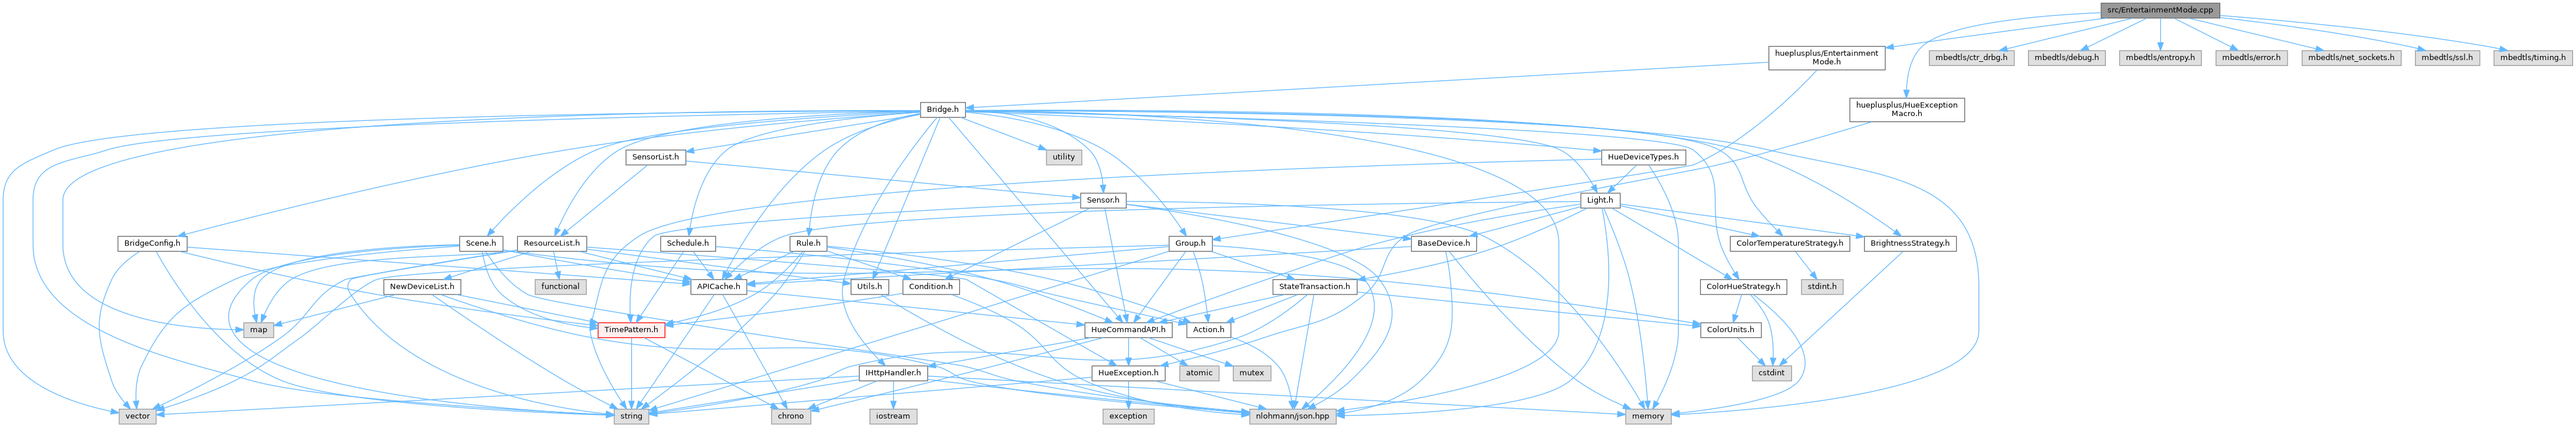
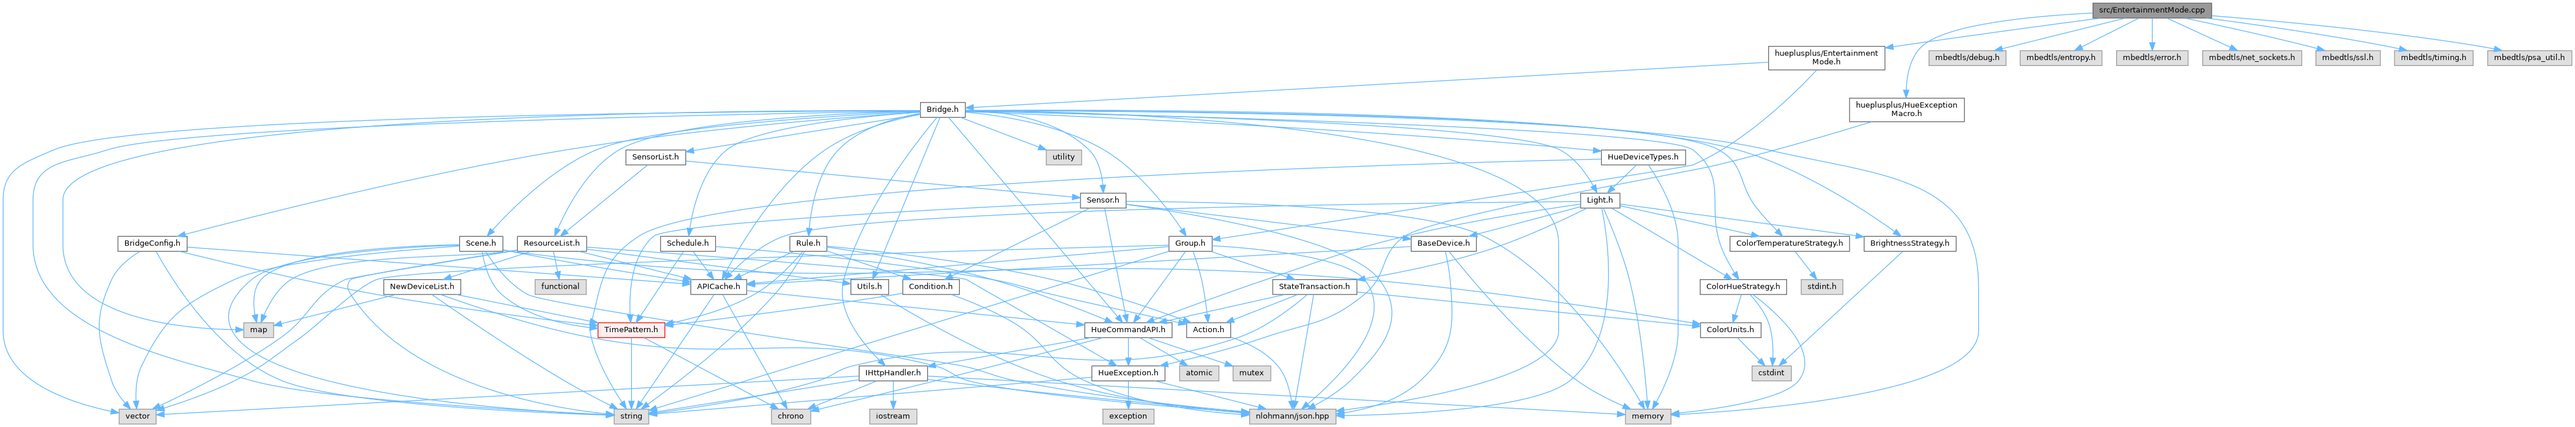
deploy: f09cd92133c8b4d296fc2277eca66c5aab457e74

diff --git a/_entertainment_mode_8h_source.html b/_entertainment_mode_8h_source.html
@@ -125,15 +125,15 @@ $(document).ready(function() { init_codefold(0); });
 <div class="ttc" id="a_group_8h_html"><div class="ttname"><a href="_group_8h.html">Group.h</a></div></div>
 <div class="ttc" id="aclasshueplusplus_1_1_bridge_html"><div class="ttname"><a href="classhueplusplus_1_1_bridge.html">hueplusplus::Bridge</a></div><div class="ttdoc">Bridge class for a bridge.</div><div class="ttdef"><b>Definition</b> Bridge.h:139</div></div>
 <div class="ttc" id="aclasshueplusplus_1_1_entertainment_mode_html"><div class="ttname"><a href="classhueplusplus_1_1_entertainment_mode.html">hueplusplus::EntertainmentMode</a></div><div class="ttdoc">Class for Hue Entertainment Mode.</div><div class="ttdef"><b>Definition</b> EntertainmentMode.h:37</div></div>
-<div class="ttc" id="aclasshueplusplus_1_1_entertainment_mode_html_a007d44d14c5bd7de5fb63a0a82d16e48"><div class="ttname"><a href="classhueplusplus_1_1_entertainment_mode.html#a007d44d14c5bd7de5fb63a0a82d16e48">hueplusplus::EntertainmentMode::connect</a></div><div class="ttdeci">bool connect()</div><div class="ttdoc">Connect and start streaming.</div><div class="ttdef"><b>Definition</b> EntertainmentMode.cpp:147</div></div>
+<div class="ttc" id="aclasshueplusplus_1_1_entertainment_mode_html_a007d44d14c5bd7de5fb63a0a82d16e48"><div class="ttname"><a href="classhueplusplus_1_1_entertainment_mode.html#a007d44d14c5bd7de5fb63a0a82d16e48">hueplusplus::EntertainmentMode::connect</a></div><div class="ttdeci">bool connect()</div><div class="ttdoc">Connect and start streaming.</div><div class="ttdef"><b>Definition</b> EntertainmentMode.cpp:137</div></div>
 <div class="ttc" id="aclasshueplusplus_1_1_entertainment_mode_html_a3be4ee9ee045fc791e2606c78fbfd3e6"><div class="ttname"><a href="classhueplusplus_1_1_entertainment_mode.html#a3be4ee9ee045fc791e2606c78fbfd3e6">hueplusplus::EntertainmentMode::bridge</a></div><div class="ttdeci">Bridge * bridge</div><div class="ttdoc">Associated bridge.</div><div class="ttdef"><b>Definition</b> EntertainmentMode.h:80</div></div>
-<div class="ttc" id="aclasshueplusplus_1_1_entertainment_mode_html_a55896dab15a5be5b14f9502d70401820"><div class="ttname"><a href="classhueplusplus_1_1_entertainment_mode.html#a55896dab15a5be5b14f9502d70401820">hueplusplus::EntertainmentMode::disconnect</a></div><div class="ttdeci">bool disconnect()</div><div class="ttdoc">Disconnect and stop streaming.</div><div class="ttdef"><b>Definition</b> EntertainmentMode.cpp:272</div></div>
+<div class="ttc" id="aclasshueplusplus_1_1_entertainment_mode_html_a55896dab15a5be5b14f9502d70401820"><div class="ttname"><a href="classhueplusplus_1_1_entertainment_mode.html#a55896dab15a5be5b14f9502d70401820">hueplusplus::EntertainmentMode::disconnect</a></div><div class="ttdeci">bool disconnect()</div><div class="ttdoc">Disconnect and stop streaming.</div><div class="ttdef"><b>Definition</b> EntertainmentMode.cpp:265</div></div>
 <div class="ttc" id="aclasshueplusplus_1_1_entertainment_mode_html_a5d5578dab3ba8ef2ea1df59e7780f43f"><div class="ttname"><a href="classhueplusplus_1_1_entertainment_mode.html#a5d5578dab3ba8ef2ea1df59e7780f43f">hueplusplus::EntertainmentMode::entertainment_num_lights</a></div><div class="ttdeci">uint8_t entertainment_num_lights</div><div class="ttdoc">number of lights in entertainment mode group</div><div class="ttdef"><b>Definition</b> EntertainmentMode.h:84</div></div>
-<div class="ttc" id="aclasshueplusplus_1_1_entertainment_mode_html_a6e1c54f3d0b79329c47967e45885be12"><div class="ttname"><a href="classhueplusplus_1_1_entertainment_mode.html#a6e1c54f3d0b79329c47967e45885be12">hueplusplus::EntertainmentMode::update</a></div><div class="ttdeci">bool update()</div><div class="ttdoc">Update all set colors by setColorRGB.</div><div class="ttdef"><b>Definition</b> EntertainmentMode.cpp:299</div></div>
+<div class="ttc" id="aclasshueplusplus_1_1_entertainment_mode_html_a6e1c54f3d0b79329c47967e45885be12"><div class="ttname"><a href="classhueplusplus_1_1_entertainment_mode.html#a6e1c54f3d0b79329c47967e45885be12">hueplusplus::EntertainmentMode::update</a></div><div class="ttdeci">bool update()</div><div class="ttdoc">Update all set colors by setColorRGB.</div><div class="ttdef"><b>Definition</b> EntertainmentMode.cpp:292</div></div>
 <div class="ttc" id="aclasshueplusplus_1_1_entertainment_mode_html_aad4b9d6b60f5e59f11b1fc7f0f51d590"><div class="ttname"><a href="classhueplusplus_1_1_entertainment_mode.html#aad4b9d6b60f5e59f11b1fc7f0f51d590">hueplusplus::EntertainmentMode::entertainment_msg</a></div><div class="ttdeci">std::vector&lt; uint8_t &gt; entertainment_msg</div><div class="ttdoc">buffer containing the entertainment mode packet data</div><div class="ttdef"><b>Definition</b> EntertainmentMode.h:83</div></div>
-<div class="ttc" id="aclasshueplusplus_1_1_entertainment_mode_html_ab5168db2ad934d81cc20fd811f157f0e"><div class="ttname"><a href="classhueplusplus_1_1_entertainment_mode.html#ab5168db2ad934d81cc20fd811f157f0e">hueplusplus::EntertainmentMode::~EntertainmentMode</a></div><div class="ttdeci">~EntertainmentMode()</div><div class="ttdoc">Destroy the Entertainment Mode object.</div><div class="ttdef"><b>Definition</b> EntertainmentMode.cpp:137</div></div>
+<div class="ttc" id="aclasshueplusplus_1_1_entertainment_mode_html_ab5168db2ad934d81cc20fd811f157f0e"><div class="ttname"><a href="classhueplusplus_1_1_entertainment_mode.html#ab5168db2ad934d81cc20fd811f157f0e">hueplusplus::EntertainmentMode::~EntertainmentMode</a></div><div class="ttdeci">~EntertainmentMode()</div><div class="ttdoc">Destroy the Entertainment Mode object.</div><div class="ttdef"><b>Definition</b> EntertainmentMode.cpp:128</div></div>
 <div class="ttc" id="aclasshueplusplus_1_1_entertainment_mode_html_ab8b56da7696f258193c42238dade1a18"><div class="ttname"><a href="classhueplusplus_1_1_entertainment_mode.html#ab8b56da7696f258193c42238dade1a18">hueplusplus::EntertainmentMode::tls_context</a></div><div class="ttdeci">std::unique_ptr&lt; TLSContext &gt; tls_context</div><div class="ttdoc">tls context</div><div class="ttdef"><b>Definition</b> EntertainmentMode.h:86</div></div>
-<div class="ttc" id="aclasshueplusplus_1_1_entertainment_mode_html_ac2798b76837ce5fd10f43d3859343333"><div class="ttname"><a href="classhueplusplus_1_1_entertainment_mode.html#ac2798b76837ce5fd10f43d3859343333">hueplusplus::EntertainmentMode::setColorRGB</a></div><div class="ttdeci">bool setColorRGB(uint8_t light_index, uint8_t red, uint8_t green, uint8_t blue)</div><div class="ttdoc">Set the color of the given light in RGB format.</div><div class="ttdef"><b>Definition</b> EntertainmentMode.cpp:278</div></div>
+<div class="ttc" id="aclasshueplusplus_1_1_entertainment_mode_html_ac2798b76837ce5fd10f43d3859343333"><div class="ttname"><a href="classhueplusplus_1_1_entertainment_mode.html#ac2798b76837ce5fd10f43d3859343333">hueplusplus::EntertainmentMode::setColorRGB</a></div><div class="ttdeci">bool setColorRGB(uint8_t light_index, uint8_t red, uint8_t green, uint8_t blue)</div><div class="ttdoc">Set the color of the given light in RGB format.</div><div class="ttdef"><b>Definition</b> EntertainmentMode.cpp:271</div></div>
 <div class="ttc" id="aclasshueplusplus_1_1_entertainment_mode_html_ace2048a118dae0b946f23746617b6179"><div class="ttname"><a href="classhueplusplus_1_1_entertainment_mode.html#ace2048a118dae0b946f23746617b6179">hueplusplus::EntertainmentMode::group</a></div><div class="ttdeci">Group * group</div><div class="ttdoc">Associated group.</div><div class="ttdef"><b>Definition</b> EntertainmentMode.h:81</div></div>
 <div class="ttc" id="aclasshueplusplus_1_1_group_html"><div class="ttname"><a href="classhueplusplus_1_1_group.html">hueplusplus::Group</a></div><div class="ttdoc">Class for Groups of lights.</div><div class="ttdef"><b>Definition</b> Group.h:42</div></div>
 <div class="ttc" id="anamespacehueplusplus_html"><div class="ttname"><a href="namespacehueplusplus.html">hueplusplus</a></div><div class="ttdoc">Namespace for the hueplusplus library.</div><div class="ttdef"><b>Definition</b> Action.h:28</div></div>

diff --git a/search/all_2.js b/search/all_2.js
@@ -40,20 +40,20 @@ var searchData=
   ['colorgamut_37',['ColorGamut',['../structhueplusplus_1_1_color_gamut.html',1,'hueplusplus']]],
   ['colorhuestrategy_38',['colorhuestrategy',['../classhueplusplus_1_1_color_hue_strategy.html',1,'hueplusplus::ColorHueStrategy'],['../classhueplusplus_1_1_light.html#a58a030711463559c249e26c85e8847eb',1,'hueplusplus::Light::colorHueStrategy']]],
   ['colorhuestrategy_2eh_39',['ColorHueStrategy.h',['../_color_hue_strategy_8h.html',1,'']]],
-  ['colortemperaturestrategy_40',['colortemperaturestrategy',['../classhueplusplus_1_1_color_temperature_strategy.html',1,'hueplusplus::ColorTemperatureStrategy'],['../classhueplusplus_1_1_light.html#ac0c64d4bdaa4a26a3da35dae112101d1',1,'hueplusplus::Light::colorTemperatureStrategy']]],
+  ['colortemperaturestrategy_40',['colortemperaturestrategy',['../classhueplusplus_1_1_light.html#ac0c64d4bdaa4a26a3da35dae112101d1',1,'hueplusplus::Light::colorTemperatureStrategy'],['../classhueplusplus_1_1_color_temperature_strategy.html',1,'hueplusplus::ColorTemperatureStrategy']]],
   ['colortemperaturestrategy_2eh_41',['ColorTemperatureStrategy.h',['../_color_temperature_strategy_8h.html',1,'']]],
-  ['colortype_42',['colortype',['../classhueplusplus_1_1_light.html#a7f504e827b158c81e9ca3c57f158ae3b',1,'hueplusplus::Light::colorType'],['../namespacehueplusplus.html#aa4ee261126f0bc8edc07e67bc811dc43',1,'hueplusplus::ColorType']]],
+  ['colortype_42',['colortype',['../namespacehueplusplus.html#aa4ee261126f0bc8edc07e67bc811dc43',1,'hueplusplus::ColorType'],['../classhueplusplus_1_1_light.html#a7f504e827b158c81e9ca3c57f158ae3b',1,'hueplusplus::Light::colorType']]],
   ['colorunits_2ecpp_43',['ColorUnits.cpp',['../_color_units_8cpp.html',1,'']]],
   ['colorunits_2eh_44',['ColorUnits.h',['../_color_units_8h.html',1,'']]],
   ['combinedpath_45',['combinedPath',['../classhueplusplus_1_1_hue_command_a_p_i.html#ad50f6a232f2cc542da4813051f3778f0',1,'hueplusplus::HueCommandAPI']]],
   ['commands_46',['commands',['../classhueplusplus_1_1_state_transaction.html#a0d95abef6863f89bae7da4e27dcca952',1,'hueplusplus::StateTransaction']]],
   ['commit_47',['commit',['../classhueplusplus_1_1_state_transaction.html#aeb7dae7c01fdffad9e224e5393f83b85',1,'hueplusplus::StateTransaction']]],
   ['compatibility_48',['Compatibility',['../index.html#autotoc_md8',1,'']]],
-  ['condition_49',['condition',['../classhueplusplus_1_1_condition.html',1,'hueplusplus::Condition'],['../classhueplusplus_1_1_condition.html#a14c0d2560c50eb6dc36b44bb825d3c82',1,'hueplusplus::Condition::Condition()']]],
+  ['condition_49',['condition',['../classhueplusplus_1_1_condition.html#a14c0d2560c50eb6dc36b44bb825d3c82',1,'hueplusplus::Condition::Condition()'],['../classhueplusplus_1_1_condition.html',1,'hueplusplus::Condition']]],
   ['condition_2eh_50',['Condition.h',['../_condition_8h.html',1,'']]],
   ['conditions_51',['Creating conditions',['../sensors.html#autotoc_md22',1,'']]],
   ['conf_52',['conf',['../structhueplusplus_1_1_t_l_s_context.html#abd44e1ca89eeafb306cfd494d8ed50b5',1,'hueplusplus::TLSContext']]],
-  ['config_53',['config',['../classhueplusplus_1_1_config.html#a8a276a5a07935c1a6c9d7620f500ef73',1,'hueplusplus::Config::Config()'],['../classhueplusplus_1_1_bridge.html#a7823c82064faf3eb019288cbb9f7f7d3',1,'hueplusplus::Bridge::config() const'],['../classhueplusplus_1_1_bridge.html#a227a51a24d21bda234a40b8b84058eb3',1,'hueplusplus::Bridge::config()'],['../classhueplusplus_1_1_config.html',1,'hueplusplus::Config']]],
+  ['config_53',['config',['../classhueplusplus_1_1_bridge.html#a227a51a24d21bda234a40b8b84058eb3',1,'hueplusplus::Bridge::config()'],['../classhueplusplus_1_1_config.html#a8a276a5a07935c1a6c9d7620f500ef73',1,'hueplusplus::Config::Config()'],['../classhueplusplus_1_1_bridge.html#a7823c82064faf3eb019288cbb9f7f7d3',1,'hueplusplus::Bridge::config()'],['../classhueplusplus_1_1_config.html',1,'hueplusplus::Config']]],
   ['connect_54',['connect',['../classhueplusplus_1_1_entertainment_mode.html#a007d44d14c5bd7de5fb63a0a82d16e48',1,'hueplusplus::EntertainmentMode']]],
   ['connecttobridge_55',['connecttobridge',['../_username_config_8cpp.html#a3e03eb0222587bec230cd7e4c7021a48',1,'connectToBridge(const std::string &amp;username, const std::string &amp;macAddress):&#160;UsernameConfig.cpp'],['../_lights_off_8cpp.html#a7b24130ecc565578d8eb32a7c4268253',1,'connectToBridge():&#160;LightsOff.cpp'],['../_bridge_setup_8cpp.html#a7b24130ecc565578d8eb32a7c4268253',1,'connectToBridge():&#160;BridgeSetup.cpp']]],
   ['construct_56',['construct',['../classhueplusplus_1_1_resource_list.html#ab98434ae91b0868dcf9cb95dfa168c95',1,'hueplusplus::ResourceList']]],
@@ -76,6 +76,5 @@ var searchData=
   ['creating_20actions_73',['Creating Actions',['../transactions.html#autotoc_md32',1,'']]],
   ['creating_20conditions_74',['Creating conditions',['../sensors.html#autotoc_md22',1,'']]],
   ['creating_20the_20hue_20bridge_75',['Creating the Hue bridge',['../getting-started.html#autotoc_md1',1,'']]],
-  ['ctr_5fdrbg_76',['ctr_drbg',['../structhueplusplus_1_1_t_l_s_context.html#a2a11da610e1caf3d8967d92746ce5fed',1,'hueplusplus::TLSContext']]],
-  ['current_5ffile_5finfo_77',['CURRENT_FILE_INFO',['../_hue_exception_macro_8h.html#ab07b1a21cf9c784dcfdd11f20c043dcb',1,'HueExceptionMacro.h']]]
+  ['current_5ffile_5finfo_76',['CURRENT_FILE_INFO',['../_hue_exception_macro_8h.html#ab07b1a21cf9c784dcfdd11f20c043dcb',1,'HueExceptionMacro.h']]]
 ];

diff --git a/_entertainment_mode_8cpp.html b/_entertainment_mode_8cpp.html
@@ -82,13 +82,13 @@ $(function() {
 </div><!--header-->
 <div class="contents">
 <div class="textblock"><code>#include &quot;<a class="el" href="_entertainment_mode_8h_source.html">hueplusplus/EntertainmentMode.h</a>&quot;</code><br />
-<code>#include &quot;mbedtls/ctr_drbg.h&quot;</code><br />
 <code>#include &quot;mbedtls/debug.h&quot;</code><br />
 <code>#include &quot;mbedtls/entropy.h&quot;</code><br />
 <code>#include &quot;mbedtls/error.h&quot;</code><br />
 <code>#include &quot;mbedtls/net_sockets.h&quot;</code><br />
 <code>#include &quot;mbedtls/ssl.h&quot;</code><br />
 <code>#include &quot;mbedtls/timing.h&quot;</code><br />
+<code>#include &quot;mbedtls/psa_util.h&quot;</code><br />
 <code>#include &quot;<a class="el" href="_hue_exception_macro_8h_source.html">hueplusplus/HueExceptionMacro.h</a>&quot;</code><br />
 </div><div class="textblock"><div id="dynsection-0" onclick="return toggleVisibility(this)" class="dynheader closed" style="cursor:pointer;">
   <img id="dynsection-0-trigger" src="closed.png" alt="+"/> Include dependency graph for EntertainmentMode.cpp:</div>
@@ -97,25 +97,25 @@ $(function() {
 <div id="dynsection-0-content" class="dyncontent" style="display:none;">
 <div class="center"><img src="_entertainment_mode_8cpp__incl.png" border="0" usemap="#asrc_2_entertainment_mode_8cpp" alt=""/></div>
 <map name="asrc_2_entertainment_mode_8cpp" id="asrc_2_entertainment_mode_8cpp">
-<area shape="rect" title=" " alt="" coords="3562,5,3763,31"/>
+<area shape="rect" title=" " alt="" coords="3549,5,3750,31"/>
 <area shape="rect" href="_entertainment_mode_8h.html" title=" " alt="" coords="2999,79,3196,119"/>
-<area shape="poly" title=" " alt="" coords="3572,33,3215,81,3211,82,3210,77,3214,76,3571,28"/>
-<area shape="rect" title=" " alt="" coords="3271,86,3415,111"/>
-<area shape="poly" title=" " alt="" coords="3617,33,3403,85,3402,80,3616,28"/>
-<area shape="rect" title=" " alt="" coords="3439,86,3569,111"/>
-<area shape="poly" title=" " alt="" coords="3641,33,3541,82,3538,78,3638,28"/>
-<area shape="rect" title=" " alt="" coords="3593,86,3732,111"/>
-<area shape="poly" title=" " alt="" coords="3665,31,3665,72,3660,72,3660,31"/>
-<area shape="rect" title=" " alt="" coords="3757,86,3878,111"/>
-<area shape="poly" title=" " alt="" coords="3687,28,3783,77,3781,82,3684,33"/>
-<area shape="rect" title=" " alt="" coords="3903,86,4071,111"/>
-<area shape="poly" title=" " alt="" coords="3710,28,3927,80,3926,85,3709,33"/>
-<area shape="rect" title=" " alt="" coords="4095,86,4204,111"/>
-<area shape="poly" title=" " alt="" coords="3764,27,3915,47,4083,76,4099,80,4098,85,4082,81,3914,52,3763,32"/>
-<area shape="rect" title=" " alt="" coords="4228,86,4361,111"/>
-<area shape="poly" title=" " alt="" coords="3764,24,3973,43,4095,58,4216,76,4239,80,4238,86,4216,81,4094,63,3972,48,3763,29"/>
+<area shape="poly" title=" " alt="" coords="3562,33,3215,81,3211,82,3210,77,3214,76,3561,28"/>
+<area shape="rect" title=" " alt="" coords="3271,86,3401,111"/>
+<area shape="poly" title=" " alt="" coords="3604,33,3395,85,3394,80,3603,28"/>
+<area shape="rect" title=" " alt="" coords="3425,86,3564,111"/>
+<area shape="poly" title=" " alt="" coords="3628,33,3531,82,3529,77,3625,28"/>
+<area shape="rect" title=" " alt="" coords="3589,86,3710,111"/>
+<area shape="poly" title=" " alt="" coords="3652,31,3652,72,3647,72,3647,31"/>
+<area shape="rect" title=" " alt="" coords="3735,86,3903,111"/>
+<area shape="poly" title=" " alt="" coords="3675,28,3783,78,3781,83,3673,33"/>
+<area shape="rect" title=" " alt="" coords="3927,86,4036,111"/>
+<area shape="poly" title=" " alt="" coords="3705,28,3915,76,3929,80,3928,85,3914,81,3704,33"/>
+<area shape="rect" title=" " alt="" coords="4060,86,4193,111"/>
+<area shape="poly" title=" " alt="" coords="3741,28,3886,48,4048,76,4069,80,4068,86,4048,81,3885,54,3740,33"/>
+<area shape="rect" title=" " alt="" coords="4218,86,4361,111"/>
+<area shape="poly" title=" " alt="" coords="3750,24,3961,44,4206,76,4230,80,4229,86,4205,81,3960,49,3750,29"/>
 <area shape="rect" href="_hue_exception_macro_8h.html" title=" " alt="" coords="3136,167,3331,207"/>
-<area shape="poly" title=" " alt="" coords="3562,24,3476,29,3387,40,3310,56,3281,67,3260,81,3248,96,3241,115,3235,153,3229,153,3235,113,3244,93,3257,77,3279,63,3309,51,3387,34,3476,24,3562,19"/>
+<area shape="poly" title=" " alt="" coords="3549,25,3466,30,3381,41,3308,57,3280,68,3260,81,3248,96,3241,115,3235,153,3229,153,3236,113,3244,93,3257,77,3278,63,3306,52,3380,35,3466,25,3548,19"/>
 <area shape="rect" href="_bridge_8h.html" title=" " alt="" coords="1561,174,1637,199"/>
 <area shape="poly" title=" " alt="" coords="2999,108,1651,185,1650,180,2998,103"/>
 <area shape="rect" href="_group_8h.html" title=" " alt="" coords="1982,401,2055,427"/>

diff --git a/search/all_4.js b/search/all_4.js
@@ -7,16 +7,15 @@ var searchData=
   ['entertainmentmode_4',['entertainmentmode',['../classhueplusplus_1_1_entertainment_mode.html',1,'hueplusplus::EntertainmentMode'],['../classhueplusplus_1_1_entertainment_mode.html#a75c6c2abf66975a8eda41e84d619345f',1,'hueplusplus::EntertainmentMode::EntertainmentMode()']]],
   ['entertainmentmode_2ecpp_5',['EntertainmentMode.cpp',['../_entertainment_mode_8cpp.html',1,'']]],
   ['entertainmentmode_2eh_6',['EntertainmentMode.h',['../_entertainment_mode_8h.html',1,'']]],
-  ['entropy_7',['entropy',['../structhueplusplus_1_1_t_l_s_context.html#a73df19b9d266ff35ca24930e941c80fe',1,'hueplusplus::TLSContext']]],
-  ['eq_8',['eq',['../classhueplusplus_1_1_condition.html#a8a66cda007f5cf01934f71c02c03cf35adf22f17124884fc51f1ac69d610096ac',1,'hueplusplus::Condition']]],
-  ['example_3a_9',['Example:',['../shared-state.html#autotoc_md28',1,'']]],
-  ['examples_10',['Building examples',['../build.html#build-examples',1,'']]],
-  ['exists_11',['exists',['../classhueplusplus_1_1_resource_list.html#af5e884eefde0a45d53f029a9f30a6ab7',1,'hueplusplus::ResourceList::exists(const IdType &amp;id)'],['../classhueplusplus_1_1_resource_list.html#a8c0219d853d551394020b7b482518070',1,'hueplusplus::ResourceList::exists(const IdType &amp;id) const'],['../classhueplusplus_1_1_group_resource_list.html#ac9fca6bd61117170325efd7c903dc95d',1,'hueplusplus::GroupResourceList::exists()']]],
-  ['extendedcolorhuestrategy_12',['extendedcolorhuestrategy',['../classhueplusplus_1_1_light.html#a9c3ccafa802cdb32c292c49f575148f4',1,'hueplusplus::Light::ExtendedColorHueStrategy'],['../classhueplusplus_1_1_extended_color_hue_strategy.html',1,'hueplusplus::ExtendedColorHueStrategy']]],
-  ['extendedcolorhuestrategy_2ecpp_13',['ExtendedColorHueStrategy.cpp',['../_extended_color_hue_strategy_8cpp.html',1,'']]],
-  ['extendedcolorhuestrategy_2eh_14',['ExtendedColorHueStrategy.h',['../_extended_color_hue_strategy_8h.html',1,'']]],
-  ['extendedcolortemperaturestrategy_15',['extendedcolortemperaturestrategy',['../classhueplusplus_1_1_light.html#a39b9af853936935617664c3f7814d910',1,'hueplusplus::Light::ExtendedColorTemperatureStrategy'],['../classhueplusplus_1_1_extended_color_temperature_strategy.html',1,'hueplusplus::ExtendedColorTemperatureStrategy']]],
-  ['extendedcolortemperaturestrategy_2ecpp_16',['ExtendedColorTemperatureStrategy.cpp',['../_extended_color_temperature_strategy_8cpp.html',1,'']]],
-  ['extendedcolortemperaturestrategy_2eh_17',['ExtendedColorTemperatureStrategy.h',['../_extended_color_temperature_strategy_8h.html',1,'']]],
-  ['external_20libraries_18',['External libraries',['../build.html#autotoc_md0',1,'']]]
+  ['eq_7',['eq',['../classhueplusplus_1_1_condition.html#a8a66cda007f5cf01934f71c02c03cf35adf22f17124884fc51f1ac69d610096ac',1,'hueplusplus::Condition']]],
+  ['example_3a_8',['Example:',['../shared-state.html#autotoc_md28',1,'']]],
+  ['examples_9',['Building examples',['../build.html#build-examples',1,'']]],
+  ['exists_10',['exists',['../classhueplusplus_1_1_resource_list.html#af5e884eefde0a45d53f029a9f30a6ab7',1,'hueplusplus::ResourceList::exists(const IdType &amp;id)'],['../classhueplusplus_1_1_resource_list.html#a8c0219d853d551394020b7b482518070',1,'hueplusplus::ResourceList::exists(const IdType &amp;id) const'],['../classhueplusplus_1_1_group_resource_list.html#ac9fca6bd61117170325efd7c903dc95d',1,'hueplusplus::GroupResourceList::exists()']]],
+  ['extendedcolorhuestrategy_11',['extendedcolorhuestrategy',['../classhueplusplus_1_1_light.html#a9c3ccafa802cdb32c292c49f575148f4',1,'hueplusplus::Light::ExtendedColorHueStrategy'],['../classhueplusplus_1_1_extended_color_hue_strategy.html',1,'hueplusplus::ExtendedColorHueStrategy']]],
+  ['extendedcolorhuestrategy_2ecpp_12',['ExtendedColorHueStrategy.cpp',['../_extended_color_hue_strategy_8cpp.html',1,'']]],
+  ['extendedcolorhuestrategy_2eh_13',['ExtendedColorHueStrategy.h',['../_extended_color_hue_strategy_8h.html',1,'']]],
+  ['extendedcolortemperaturestrategy_14',['extendedcolortemperaturestrategy',['../classhueplusplus_1_1_light.html#a39b9af853936935617664c3f7814d910',1,'hueplusplus::Light::ExtendedColorTemperatureStrategy'],['../classhueplusplus_1_1_extended_color_temperature_strategy.html',1,'hueplusplus::ExtendedColorTemperatureStrategy']]],
+  ['extendedcolortemperaturestrategy_2ecpp_15',['ExtendedColorTemperatureStrategy.cpp',['../_extended_color_temperature_strategy_8cpp.html',1,'']]],
+  ['extendedcolortemperaturestrategy_2eh_16',['ExtendedColorTemperatureStrategy.h',['../_extended_color_temperature_strategy_8h.html',1,'']]],
+  ['external_20libraries_17',['External libraries',['../build.html#autotoc_md0',1,'']]]
 ];

diff --git a/structhueplusplus_1_1_t_l_s_context.html b/structhueplusplus_1_1_t_l_s_context.html
@@ -86,10 +86,6 @@ Public Attributes</h2></td></tr>
 <tr class="separator:a1d6795347b4d9db4f5ca251717c6f09b"><td class="memSeparator" colspan="2">&#160;</td></tr>
 <tr class="memitem:ad28183b835d3cb80e012cb9a67d976dc" id="r_ad28183b835d3cb80e012cb9a67d976dc"><td class="memItemLeft" align="right" valign="top">mbedtls_net_context&#160;</td><td class="memItemRight" valign="bottom"><a class="el" href="structhueplusplus_1_1_t_l_s_context.html#ad28183b835d3cb80e012cb9a67d976dc">server_fd</a></td></tr>
 <tr class="separator:ad28183b835d3cb80e012cb9a67d976dc"><td class="memSeparator" colspan="2">&#160;</td></tr>
-<tr class="memitem:a73df19b9d266ff35ca24930e941c80fe" id="r_a73df19b9d266ff35ca24930e941c80fe"><td class="memItemLeft" align="right" valign="top">mbedtls_entropy_context&#160;</td><td class="memItemRight" valign="bottom"><a class="el" href="structhueplusplus_1_1_t_l_s_context.html#a73df19b9d266ff35ca24930e941c80fe">entropy</a></td></tr>
-<tr class="separator:a73df19b9d266ff35ca24930e941c80fe"><td class="memSeparator" colspan="2">&#160;</td></tr>
-<tr class="memitem:a2a11da610e1caf3d8967d92746ce5fed" id="r_a2a11da610e1caf3d8967d92746ce5fed"><td class="memItemLeft" align="right" valign="top">mbedtls_ctr_drbg_context&#160;</td><td class="memItemRight" valign="bottom"><a class="el" href="structhueplusplus_1_1_t_l_s_context.html#a2a11da610e1caf3d8967d92746ce5fed">ctr_drbg</a></td></tr>
-<tr class="separator:a2a11da610e1caf3d8967d92746ce5fed"><td class="memSeparator" colspan="2">&#160;</td></tr>
 <tr class="memitem:abd44e1ca89eeafb306cfd494d8ed50b5" id="r_abd44e1ca89eeafb306cfd494d8ed50b5"><td class="memItemLeft" align="right" valign="top">mbedtls_ssl_config&#160;</td><td class="memItemRight" valign="bottom"><a class="el" href="structhueplusplus_1_1_t_l_s_context.html#abd44e1ca89eeafb306cfd494d8ed50b5">conf</a></td></tr>
 <tr class="separator:abd44e1ca89eeafb306cfd494d8ed50b5"><td class="memSeparator" colspan="2">&#160;</td></tr>
 <tr class="memitem:a0db47cc09f651cf2c1bc8f205f13e23b" id="r_a0db47cc09f651cf2c1bc8f205f13e23b"><td class="memItemLeft" align="right" valign="top">mbedtls_x509_crt&#160;</td><td class="memItemRight" valign="bottom"><a class="el" href="structhueplusplus_1_1_t_l_s_context.html#a0db47cc09f651cf2c1bc8f205f13e23b">cacert</a></td></tr>
@@ -120,34 +116,6 @@ Public Attributes</h2></td></tr>
       <table class="memname">
         <tr>
           <td class="memname">mbedtls_ssl_config hueplusplus::TLSContext::conf</td>
-        </tr>
-      </table>
-</div><div class="memdoc">
-
-</div>
-</div>
-<a id="a2a11da610e1caf3d8967d92746ce5fed" name="a2a11da610e1caf3d8967d92746ce5fed"></a>
-<h2 class="memtitle"><span class="permalink"><a href="#a2a11da610e1caf3d8967d92746ce5fed">&#9670;&#160;</a></span>ctr_drbg</h2>
-
-<div class="memitem">
-<div class="memproto">
-      <table class="memname">
-        <tr>
-          <td class="memname">mbedtls_ctr_drbg_context hueplusplus::TLSContext::ctr_drbg</td>
-        </tr>
-      </table>
-</div><div class="memdoc">
-
-</div>
-</div>
-<a id="a73df19b9d266ff35ca24930e941c80fe" name="a73df19b9d266ff35ca24930e941c80fe"></a>
-<h2 class="memtitle"><span class="permalink"><a href="#a73df19b9d266ff35ca24930e941c80fe">&#9670;&#160;</a></span>entropy</h2>
-
-<div class="memitem">
-<div class="memproto">
-      <table class="memname">
-        <tr>
-          <td class="memname">mbedtls_entropy_context hueplusplus::TLSContext::entropy</td>
         </tr>
       </table>
 </div><div class="memdoc">

diff --git a/search/all_6.js b/search/all_6.js
@@ -20,7 +20,7 @@ var searchData=
   ['getactionhuesaturation_17',['getactionhuesaturation',['../classhueplusplus_1_1_group.html#a411f3566414105e139e32f91a9c0040b',1,'hueplusplus::Group::getActionHueSaturation() const'],['../classhueplusplus_1_1_group.html#ae46361ffec4f0103f257d04b582b136a',1,'hueplusplus::Group::getActionHueSaturation()']]],
   ['getactionon_18',['getactionon',['../classhueplusplus_1_1_group.html#a0b4189da2f630035f98950174f442123',1,'hueplusplus::Group::getActionOn() const'],['../classhueplusplus_1_1_group.html#a817792ccaa71be19c9d64415c8415f4d',1,'hueplusplus::Group::getActionOn()']]],
   ['getactions_19',['getActions',['../classhueplusplus_1_1_rule.html#a31e79a56c195fd1d071c3810d58c8306',1,'hueplusplus::Rule']]],
-  ['getaddress_20',['getaddress',['../classhueplusplus_1_1_hue_a_p_i_response_exception.html#a09d3e179c87c248ad93fc89b15e3a2f4',1,'hueplusplus::HueAPIResponseException::GetAddress()'],['../classhueplusplus_1_1_action.html#a258c2d4a88d5eed9dc85a2539fbcbd71',1,'hueplusplus::Action::getAddress()'],['../classhueplusplus_1_1_condition.html#a31f46f01e55a3e75b5136e7f4a02bee1',1,'hueplusplus::Condition::getAddress()']]],
+  ['getaddress_20',['getaddress',['../classhueplusplus_1_1_action.html#a258c2d4a88d5eed9dc85a2539fbcbd71',1,'hueplusplus::Action::getAddress()'],['../classhueplusplus_1_1_condition.html#a31f46f01e55a3e75b5136e7f4a02bee1',1,'hueplusplus::Condition::getAddress()'],['../classhueplusplus_1_1_hue_a_p_i_response_exception.html#a09d3e179c87c248ad93fc89b15e3a2f4',1,'hueplusplus::HueAPIResponseException::GetAddress()']]],
   ['getall_21',['getAll',['../classhueplusplus_1_1_resource_list.html#aa9e28a0a1a811681ba71f1ae0b4036bd',1,'hueplusplus::ResourceList']]],
   ['getallbytype_22',['getAllByType',['../classhueplusplus_1_1_sensor_list.html#a2c8042d2c1f4ab47636478f7b5cf6b1f',1,'hueplusplus::SensorList']]],
   ['getallon_23',['getallon',['../classhueplusplus_1_1_group.html#a2afaf3ff50700dfa9f86f33da7d26924',1,'hueplusplus::Group::getAllOn()'],['../classhueplusplus_1_1_group.html#a5531d2638f445fc01ee283f37dd3fb9e',1,'hueplusplus::Group::getAllOn() const']]],

diff --git a/search/functions_6.js b/search/functions_6.js
@@ -8,7 +8,7 @@ var searchData=
   ['getactionhuesaturation_5',['getactionhuesaturation',['../classhueplusplus_1_1_group.html#ae46361ffec4f0103f257d04b582b136a',1,'hueplusplus::Group::getActionHueSaturation()'],['../classhueplusplus_1_1_group.html#a411f3566414105e139e32f91a9c0040b',1,'hueplusplus::Group::getActionHueSaturation() const']]],
   ['getactionon_6',['getactionon',['../classhueplusplus_1_1_group.html#a817792ccaa71be19c9d64415c8415f4d',1,'hueplusplus::Group::getActionOn()'],['../classhueplusplus_1_1_group.html#a0b4189da2f630035f98950174f442123',1,'hueplusplus::Group::getActionOn() const']]],
   ['getactions_7',['getActions',['../classhueplusplus_1_1_rule.html#a31e79a56c195fd1d071c3810d58c8306',1,'hueplusplus::Rule']]],
-  ['getaddress_8',['getaddress',['../classhueplusplus_1_1_hue_a_p_i_response_exception.html#a09d3e179c87c248ad93fc89b15e3a2f4',1,'hueplusplus::HueAPIResponseException::GetAddress()'],['../classhueplusplus_1_1_action.html#a258c2d4a88d5eed9dc85a2539fbcbd71',1,'hueplusplus::Action::getAddress()'],['../classhueplusplus_1_1_condition.html#a31f46f01e55a3e75b5136e7f4a02bee1',1,'hueplusplus::Condition::getAddress()']]],
+  ['getaddress_8',['getaddress',['../classhueplusplus_1_1_action.html#a258c2d4a88d5eed9dc85a2539fbcbd71',1,'hueplusplus::Action::getAddress()'],['../classhueplusplus_1_1_condition.html#a31f46f01e55a3e75b5136e7f4a02bee1',1,'hueplusplus::Condition::getAddress()'],['../classhueplusplus_1_1_hue_a_p_i_response_exception.html#a09d3e179c87c248ad93fc89b15e3a2f4',1,'hueplusplus::HueAPIResponseException::GetAddress()']]],
   ['getall_9',['getAll',['../classhueplusplus_1_1_resource_list.html#aa9e28a0a1a811681ba71f1ae0b4036bd',1,'hueplusplus::ResourceList']]],
   ['getallbytype_10',['getAllByType',['../classhueplusplus_1_1_sensor_list.html#a2c8042d2c1f4ab47636478f7b5cf6b1f',1,'hueplusplus::SensorList']]],
   ['getallon_11',['getallon',['../classhueplusplus_1_1_group.html#a2afaf3ff50700dfa9f86f33da7d26924',1,'hueplusplus::Group::getAllOn()'],['../classhueplusplus_1_1_group.html#a5531d2638f445fc01ee283f37dd3fb9e',1,'hueplusplus::Group::getAllOn() const']]],

diff --git a/structhueplusplus_1_1_t_l_s_context-members.html b/structhueplusplus_1_1_t_l_s_context-members.html
@@ -81,8 +81,6 @@ $(function() {
 <table class="directory">
   <tr class="even"><td class="entry"><a class="el" href="structhueplusplus_1_1_t_l_s_context.html#a0db47cc09f651cf2c1bc8f205f13e23b">cacert</a></td><td class="entry"><a class="el" href="structhueplusplus_1_1_t_l_s_context.html">hueplusplus::TLSContext</a></td><td class="entry"></td></tr>
   <tr class="odd"><td class="entry"><a class="el" href="structhueplusplus_1_1_t_l_s_context.html#abd44e1ca89eeafb306cfd494d8ed50b5">conf</a></td><td class="entry"><a class="el" href="structhueplusplus_1_1_t_l_s_context.html">hueplusplus::TLSContext</a></td><td class="entry"></td></tr>
-  <tr class="even"><td class="entry"><a class="el" href="structhueplusplus_1_1_t_l_s_context.html#a2a11da610e1caf3d8967d92746ce5fed">ctr_drbg</a></td><td class="entry"><a class="el" href="structhueplusplus_1_1_t_l_s_context.html">hueplusplus::TLSContext</a></td><td class="entry"></td></tr>
-  <tr class="odd"><td class="entry"><a class="el" href="structhueplusplus_1_1_t_l_s_context.html#a73df19b9d266ff35ca24930e941c80fe">entropy</a></td><td class="entry"><a class="el" href="structhueplusplus_1_1_t_l_s_context.html">hueplusplus::TLSContext</a></td><td class="entry"></td></tr>
   <tr class="even"><td class="entry"><a class="el" href="structhueplusplus_1_1_t_l_s_context.html#ad28183b835d3cb80e012cb9a67d976dc">server_fd</a></td><td class="entry"><a class="el" href="structhueplusplus_1_1_t_l_s_context.html">hueplusplus::TLSContext</a></td><td class="entry"></td></tr>
   <tr class="odd"><td class="entry"><a class="el" href="structhueplusplus_1_1_t_l_s_context.html#a1d6795347b4d9db4f5ca251717c6f09b">ssl</a></td><td class="entry"><a class="el" href="structhueplusplus_1_1_t_l_s_context.html">hueplusplus::TLSContext</a></td><td class="entry"></td></tr>
   <tr class="even"><td class="entry"><a class="el" href="structhueplusplus_1_1_t_l_s_context.html#a510c4a2a72a8fc5a17ffef5993f1562b">timer</a></td><td class="entry"><a class="el" href="structhueplusplus_1_1_t_l_s_context.html">hueplusplus::TLSContext</a></td><td class="entry"></td></tr>

diff --git a/functions_e.html b/functions_e.html
@@ -76,7 +76,6 @@ $(function() {
 <li>entertainment_msg&#160;:&#160;<a class="el" href="classhueplusplus_1_1_entertainment_mode.html#aad4b9d6b60f5e59f11b1fc7f0f51d590">hueplusplus::EntertainmentMode</a></li>
 <li>entertainment_num_lights&#160;:&#160;<a class="el" href="classhueplusplus_1_1_entertainment_mode.html#a5d5578dab3ba8ef2ea1df59e7780f43f">hueplusplus::EntertainmentMode</a></li>
 <li>EntertainmentMode()&#160;:&#160;<a class="el" href="classhueplusplus_1_1_entertainment_mode.html#a75c6c2abf66975a8eda41e84d619345f">hueplusplus::EntertainmentMode</a></li>
-<li>entropy&#160;:&#160;<a class="el" href="structhueplusplus_1_1_t_l_s_context.html#a73df19b9d266ff35ca24930e941c80fe">hueplusplus::TLSContext</a></li>
 <li>exists()&#160;:&#160;<a class="el" href="classhueplusplus_1_1_group_resource_list.html#ac9fca6bd61117170325efd7c903dc95d">hueplusplus::GroupResourceList&lt; Resource, CreateType &gt;</a>, <a class="el" href="classhueplusplus_1_1_resource_list.html#af5e884eefde0a45d53f029a9f30a6ab7">hueplusplus::ResourceList&lt; Resource, IdT &gt;</a></li>
 <li>ExtendedColorHueStrategy&#160;:&#160;<a class="el" href="classhueplusplus_1_1_light.html#a9c3ccafa802cdb32c292c49f575148f4">hueplusplus::Light</a></li>
 <li>ExtendedColorTemperatureStrategy&#160;:&#160;<a class="el" href="classhueplusplus_1_1_light.html#a39b9af853936935617664c3f7814d910">hueplusplus::Light</a></li>

diff --git a/functions_vars.html b/functions_vars.html
@@ -114,14 +114,12 @@ $(function() {
 <li>commands&#160;:&#160;<a class="el" href="classhueplusplus_1_1_state_transaction.html#a0d95abef6863f89bae7da4e27dcca952">hueplusplus::StateTransaction</a></li>
 <li>conf&#160;:&#160;<a class="el" href="structhueplusplus_1_1_t_l_s_context.html#abd44e1ca89eeafb306cfd494d8ed50b5">hueplusplus::TLSContext</a></li>
 <li>created&#160;:&#160;<a class="el" href="structhueplusplus_1_1_whitelisted_user.html#a215b666e60ec721bb5b8238623479edb">hueplusplus::WhitelistedUser</a></li>
-<li>ctr_drbg&#160;:&#160;<a class="el" href="structhueplusplus_1_1_t_l_s_context.html#a2a11da610e1caf3d8967d92746ce5fed">hueplusplus::TLSContext</a></li>
 </ul>
 
 
 <h3><a id="index_e" name="index_e"></a>- e -</h3><ul>
 <li>entertainment_msg&#160;:&#160;<a class="el" href="classhueplusplus_1_1_entertainment_mode.html#aad4b9d6b60f5e59f11b1fc7f0f51d590">hueplusplus::EntertainmentMode</a></li>
 <li>entertainment_num_lights&#160;:&#160;<a class="el" href="classhueplusplus_1_1_entertainment_mode.html#a5d5578dab3ba8ef2ea1df59e7780f43f">hueplusplus::EntertainmentMode</a></li>
-<li>entropy&#160;:&#160;<a class="el" href="structhueplusplus_1_1_t_l_s_context.html#a73df19b9d266ff35ca24930e941c80fe">hueplusplus::TLSContext</a></li>
 </ul>
 
 

diff --git a/search/variables_2.js b/search/variables_2.js
@@ -27,6 +27,5 @@ var searchData=
   ['colortype_24',['colorType',['../classhueplusplus_1_1_light.html#a7f504e827b158c81e9ca3c57f158ae3b',1,'hueplusplus::Light']]],
   ['commands_25',['commands',['../classhueplusplus_1_1_state_transaction.html#a0d95abef6863f89bae7da4e27dcca952',1,'hueplusplus::StateTransaction']]],
   ['conf_26',['conf',['../structhueplusplus_1_1_t_l_s_context.html#abd44e1ca89eeafb306cfd494d8ed50b5',1,'hueplusplus::TLSContext']]],
-  ['created_27',['created',['../structhueplusplus_1_1_whitelisted_user.html#a215b666e60ec721bb5b8238623479edb',1,'hueplusplus::WhitelistedUser']]],
-  ['ctr_5fdrbg_28',['ctr_drbg',['../structhueplusplus_1_1_t_l_s_context.html#a2a11da610e1caf3d8967d92746ce5fed',1,'hueplusplus::TLSContext']]]
+  ['created_27',['created',['../structhueplusplus_1_1_whitelisted_user.html#a215b666e60ec721bb5b8238623479edb',1,'hueplusplus::WhitelistedUser']]]
 ];

diff --git a/search/variables_3.js b/search/variables_3.js
@@ -1,6 +1,5 @@
 var searchData=
 [
   ['entertainment_5fmsg_0',['entertainment_msg',['../classhueplusplus_1_1_entertainment_mode.html#aad4b9d6b60f5e59f11b1fc7f0f51d590',1,'hueplusplus::EntertainmentMode']]],
-  ['entertainment_5fnum_5flights_1',['entertainment_num_lights',['../classhueplusplus_1_1_entertainment_mode.html#a5d5578dab3ba8ef2ea1df59e7780f43f',1,'hueplusplus::EntertainmentMode']]],
-  ['entropy_2',['entropy',['../structhueplusplus_1_1_t_l_s_context.html#a73df19b9d266ff35ca24930e941c80fe',1,'hueplusplus::TLSContext']]]
+  ['entertainment_5fnum_5flights_1',['entertainment_num_lights',['../classhueplusplus_1_1_entertainment_mode.html#a5d5578dab3ba8ef2ea1df59e7780f43f',1,'hueplusplus::EntertainmentMode']]]
 ];
